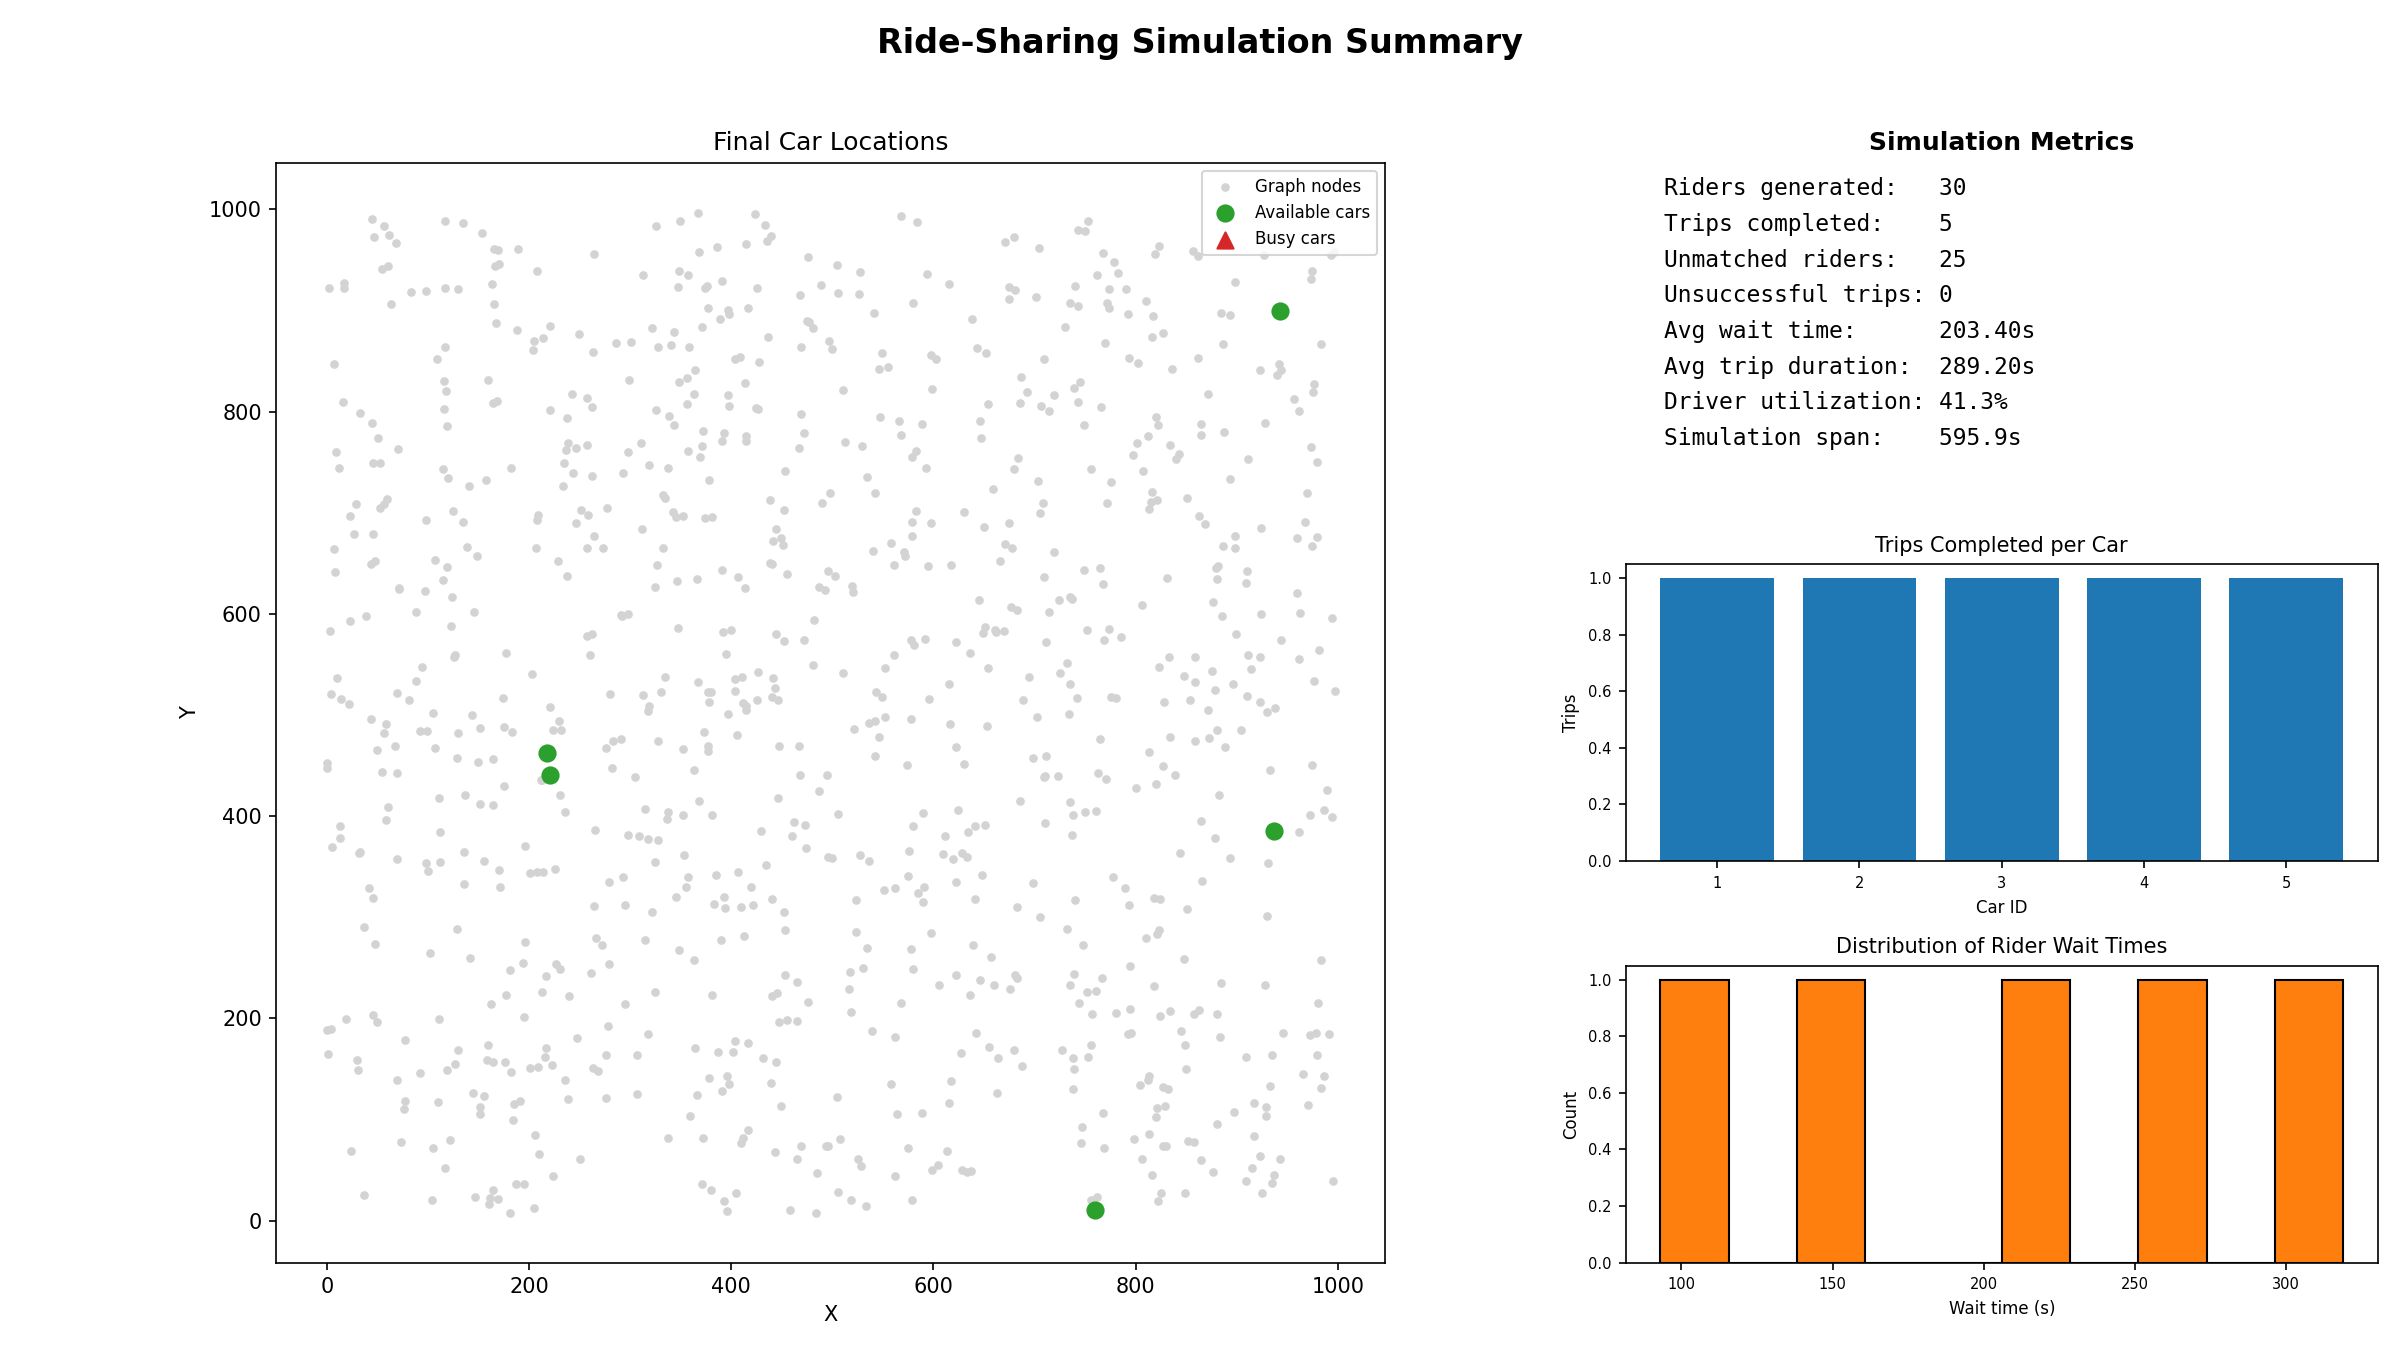
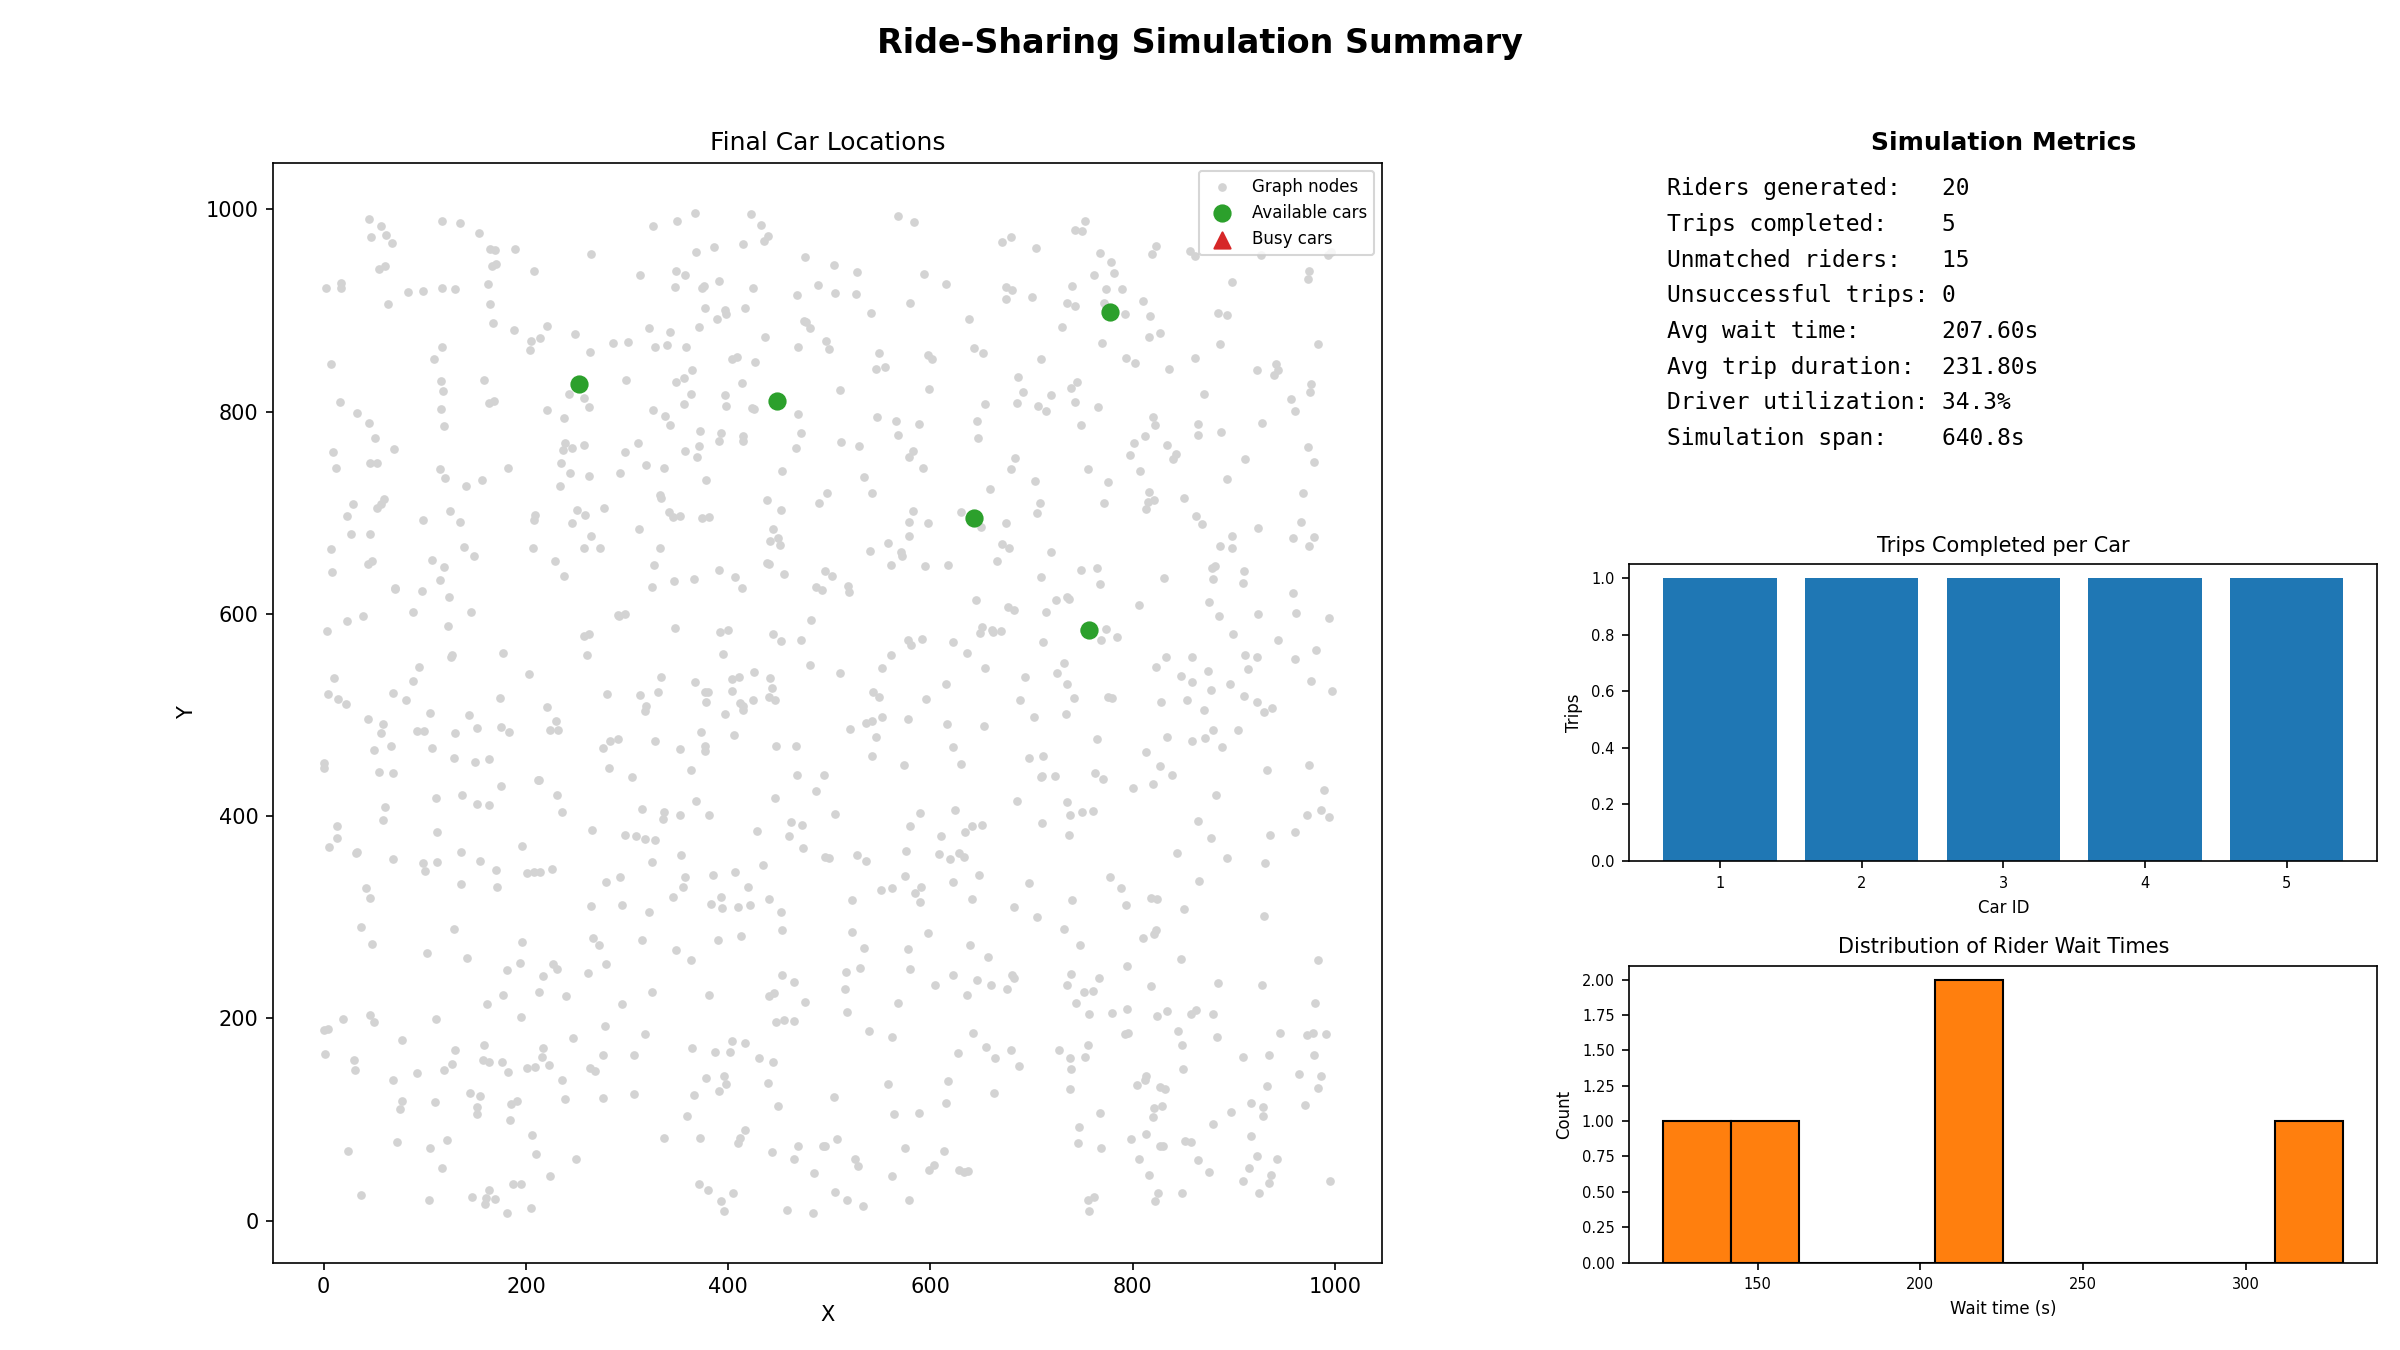
summary generation

diff --git a/student_code/final_project/README.md b/student_code/final_project/README.md
@@ -46,7 +46,7 @@ last event actually processed, not the generation cutoff.
 python3 simulation.py --map-file city_map.csv --num-riders 50
 
 # Production map, 100 cars, run for 3600 simulated seconds, reproducible
-python3 simulation.py --map-file production_map.csv --num-cars 100 --max-time 3600 --random-seed 42
+python3 simulation.py --map-file city_map.csv --num-cars 100 --max-time 3600 --random-seed 42
 
 # Wider candidate pool per match
 python3 simulation.py
